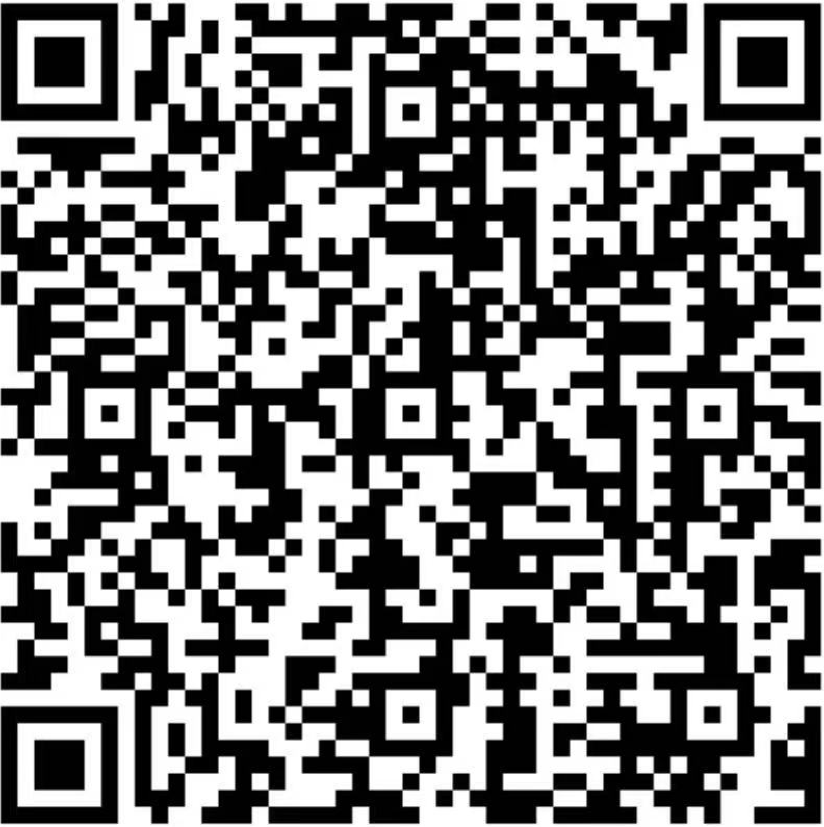
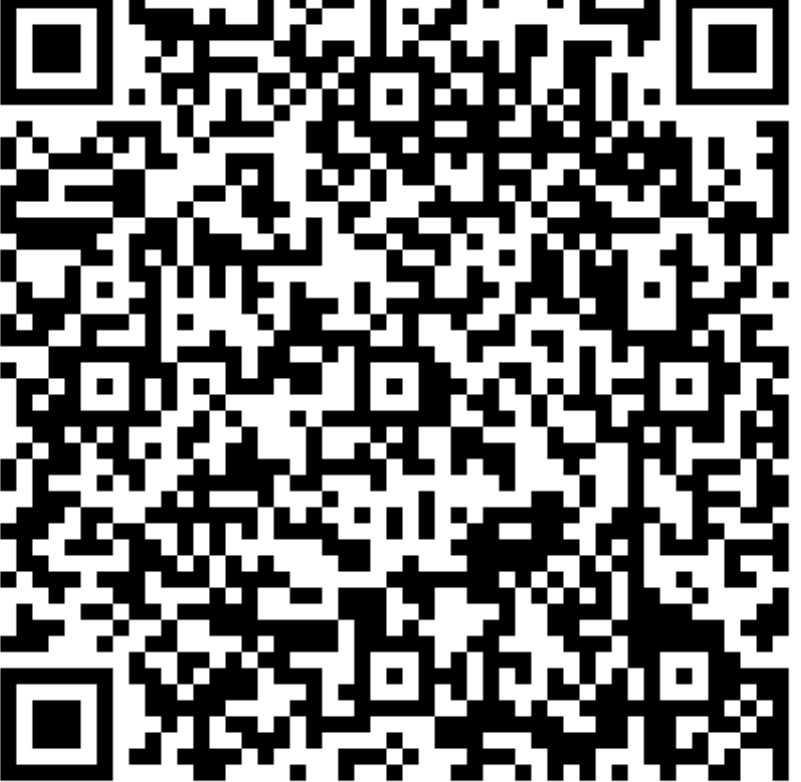
Update QR code.

diff --git a/README.md b/README.md
@@ -12,13 +12,6 @@ English | [简体中文](README_ch.md)
 ![python version](https://img.shields.io/badge/python-3.6+-orange.svg)
 ![support os](https://img.shields.io/badge/os-linux%2C%20win%2C%20mac-yellow.svg)
 
-## AI Creation Camp·PaddleHub Creative Competition (Hot Recruitment)🔥🔥
-
-Developers are sincerely invited to participate in the first phase of **AI Creation Camp·PaddleHub Creative Competition**. Realize AI creative projects based on PaddleHub. As long as your ideas are novel, you will have generous prizes to take home (10,000 RMB, Switch game console & fitness ring, mechanical keyboard, Xiaodu headphones, Xiaodu toy bear). Scan the QR code in the picture below to register, or click [Register Now](https://aistudio.baidu.com/aistudio/competition/detail/72) to register immediately. The competition time is from March 1, 2021 to March 31, 2021. 
-
-<p align="center">
- <img src="./docs/imgs/Creation.png" align="middle"
-</p>
 
 
 ## Introduction
@@ -283,4 +276,5 @@ We welcome you to contribute code to PaddleHub, and thank you for your feedback.
 * Many thanks to [zbp-xxxp](https://github.com/zbp-xxxp) and [七年期限](https://github.com/1084667371),Jointly contributed to the Mid-Autumn Festival Special Edition Module
 * Many thanks to [livingbody](https://github.com/livingbody)，Contributed models for style transfer based on PaddleHub's capabilities and Mid-Autumn Festival WeChat Mini Program
 * Many thanks to [BurrowsWang](https://github.com/BurrowsWang) for fixing Markdown table display problem
+* Many thanks to [huqi](https://github.com/hu-qi) for fixing readme typo
 

diff --git a/README_ch.md b/README_ch.md
@@ -12,14 +12,6 @@
 ![support os](https://img.shields.io/badge/os-linux%2C%20win%2C%20mac-yellow.svg)
 
 
-## AI创造营·PaddleHub创意赛（火热招募）🔥🔥
-
-诚邀各位开发者参加 **AI创造营·PaddleHub创意赛** 第一期。基于PaddleHub实现AI创意项目，只要你的脑洞够强，飞桨小哥哥亲手pick你出道！更有丰厚奖品带回家（1万元RMB、Switch游戏机&健身环、机械键盘、小度耳机、小度熊）。扫描下方图片中二维码参与报名，也可以点击[前往报名](https://aistudio.baidu.com/aistudio/competition/detail/72)立即报名。比赛时间2021年3月1号-2021年3月31号，快来参加吧~
-
-<p align="center">
- <img src="./docs/imgs/Creation.png" align="middle"
-</p>
-
 ## 简介
 - PaddleHub旨在为开发者提供丰富的、高质量的、直接可用的预训练模型。
 - **【无需深度学习背景、无需数据与训练过程】**，可快速使用AI模型，享受人工智能时代红利。
@@ -287,3 +279,4 @@
 * 非常感谢[zbp-xxxp](https://github.com/zbp-xxxp)和[七年期限](https://github.com/1084667371)联合贡献了看图写诗中秋特别版module、谣言预测、请假条生成等module
 * 非常感谢[livingbody](https://github.com/livingbody)贡献了基于PaddleHub能力的风格迁移和中秋看图写诗微信小程序
 * 非常感谢[BurrowsWang](https://github.com/BurrowsWang)修复Markdown表格显示问题
+* 非常感谢[huqi](https://github.com/hu-qi)修复了readme中的错别字
